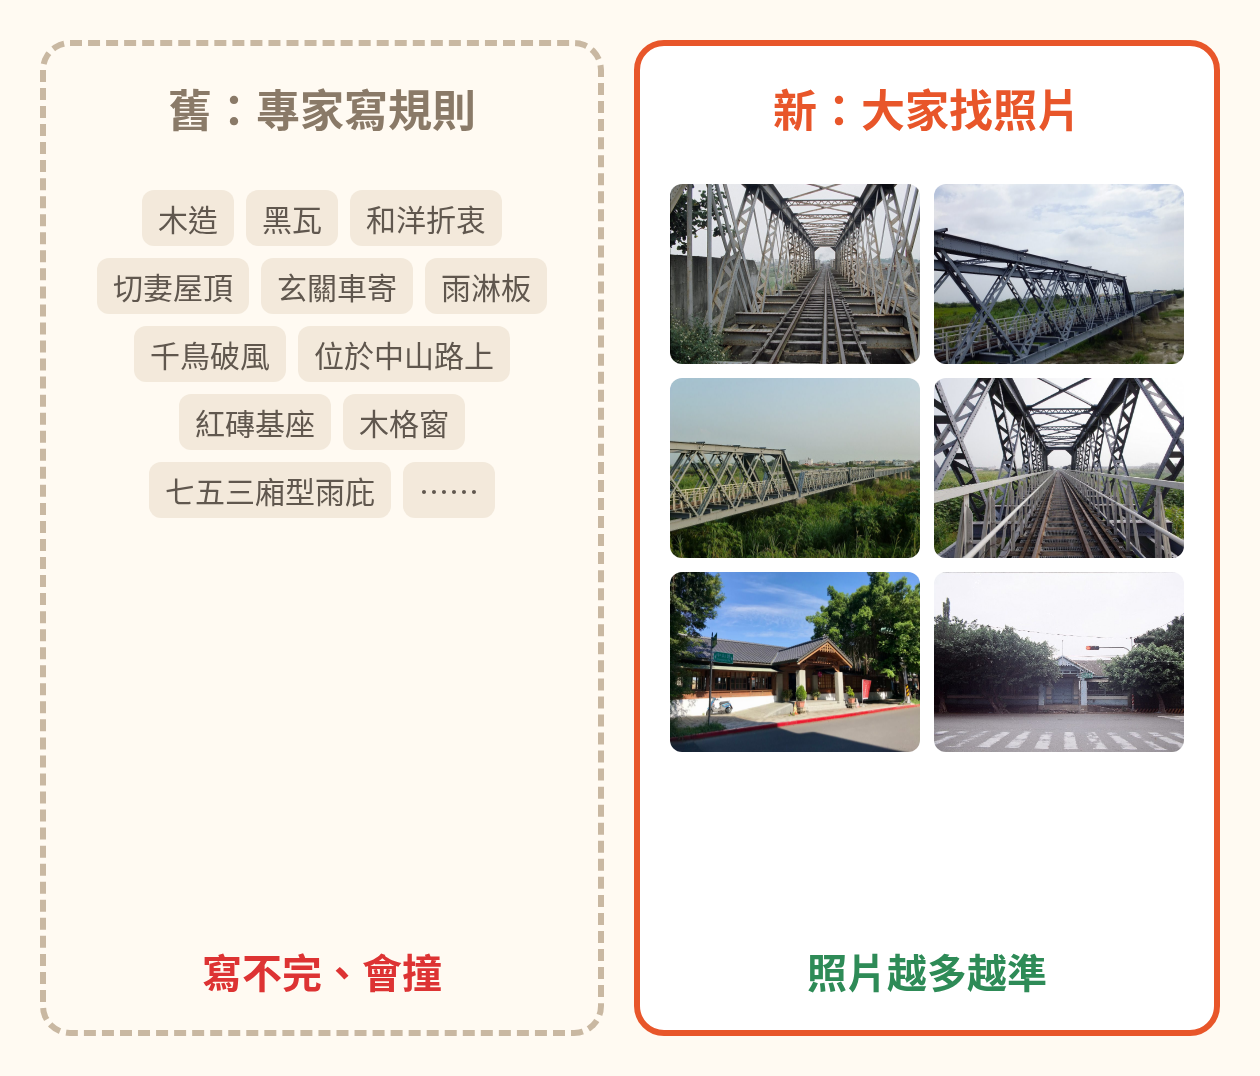
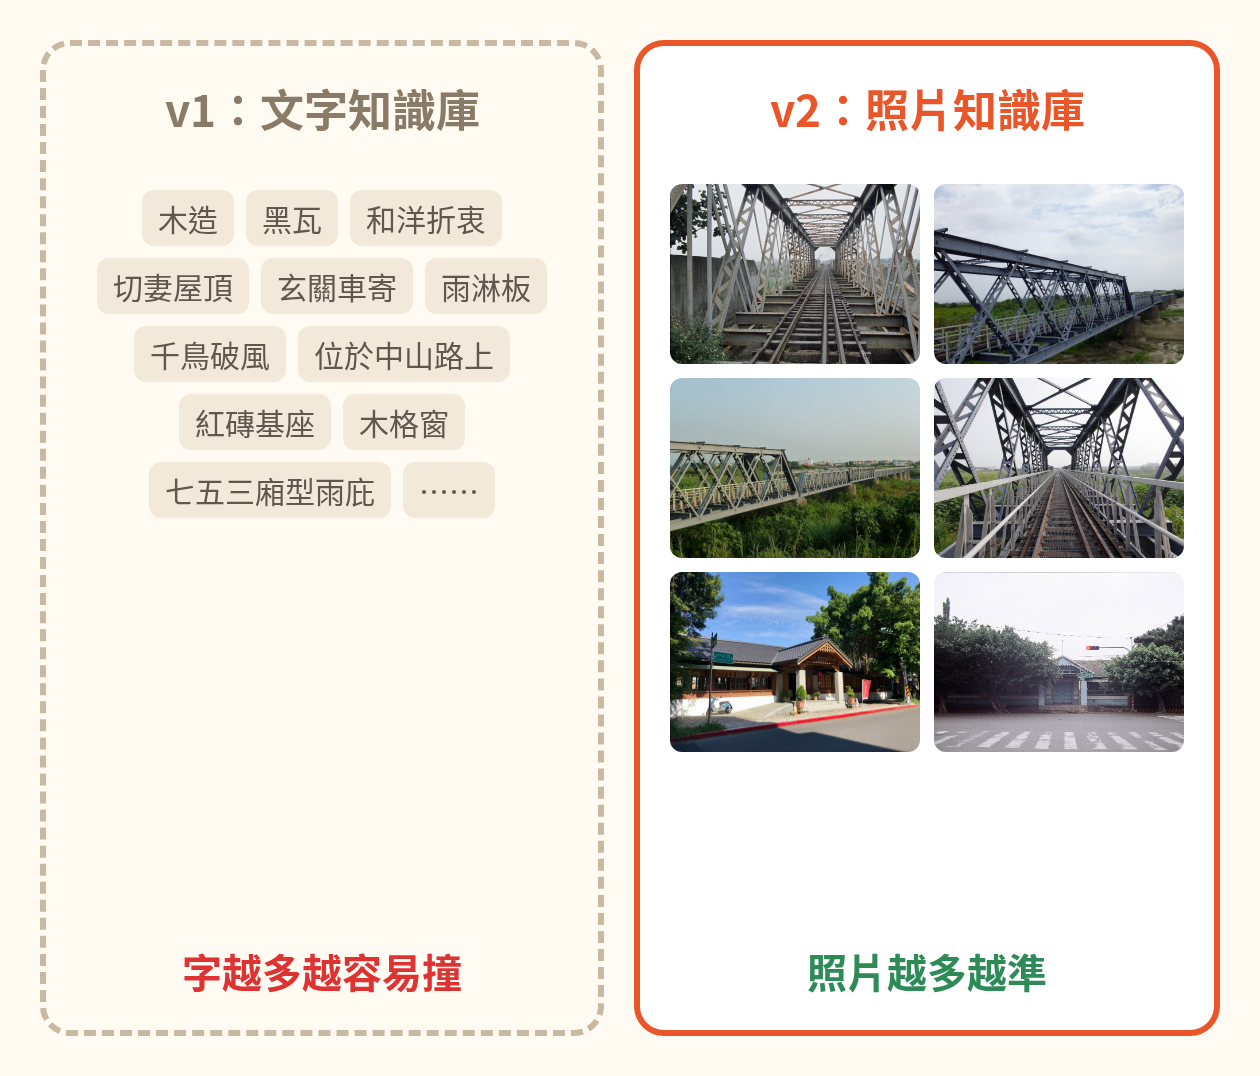
[pm] docs: 舊版改稱 v1 文字知識庫

diff --git a/assets/src/s1-06-oldnew.html b/assets/src/s1-06-oldnew.html
@@ -2,10 +2,10 @@
 .tg{display:inline-block;background:#efe4d4;border-radius:12px;padding:6px 16px;font-size:30px;margin:6px}
 .g img{width:250px;height:180px;object-fit:cover;border-radius:12px}</style>
 <div id="card" class="row" style="gap:30px;align-items:stretch">
-<div class="c" style="border:6px dashed #c9b8a2"><div class="lbl muted">舊：專家寫規則</div>
+<div class="c" style="border:6px dashed #c9b8a2"><div class="lbl muted">v1：文字知識庫</div>
 <div style="text-align:center;margin-top:20px;opacity:.75"><span class="tg">木造</span><span class="tg">黑瓦</span><span class="tg">和洋折衷</span><span class="tg">切妻屋頂</span><span class="tg">玄關車寄</span><span class="tg">雨淋板</span><span class="tg">千鳥破風</span><span class="tg">位於中山路上</span><span class="tg">紅磚基座</span><span class="tg">木格窗</span><span class="tg">七五三廂型雨庇</span><span class="tg">……</span></div>
-<div class="big bad" style="margin-top:auto">寫不完、會撞</div></div>
-<div class="c" style="border:6px solid #e8562a;background:#fff"><div class="lbl" style="color:#e8562a">新：大家找照片</div>
+<div class="big bad" style="margin-top:auto">字越多越容易撞</div></div>
+<div class="c" style="border:6px solid #e8562a;background:#fff"><div class="lbl" style="color:#e8562a">v2：照片知識庫</div>
 <div class="g" style="display:grid;grid-template-columns:1fr 1fr;gap:14px;margin-top:20px">
 <img src="../photos/虎尾鐵橋-1-wiki.jpg"><img src="../photos/虎尾鐵橋-2-commons.jpg"><img src="../photos/虎尾鐵橋-3-commons.jpg"><img src="../photos/虎尾鐵橋-4-commons.jpg"><img src="../photos/虎尾驛-0-manual.jpg"><img src="../photos/虎尾驛-2-commons.jpg"></div>
 <div class="big ok" style="margin-top:auto">照片越多越準</div></div>
